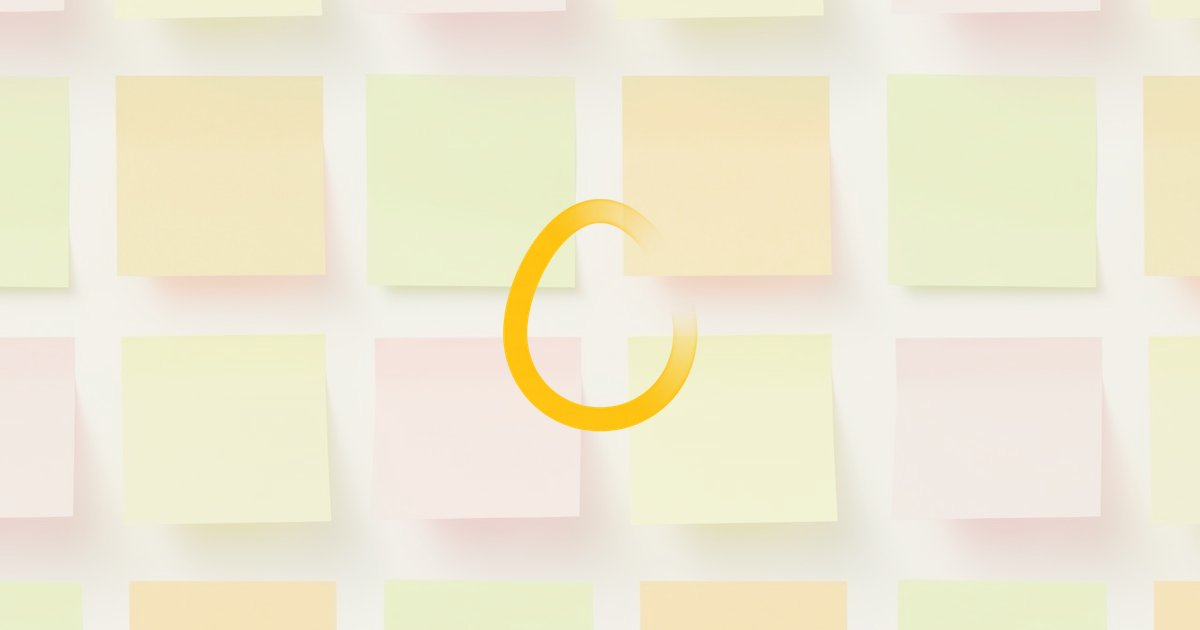
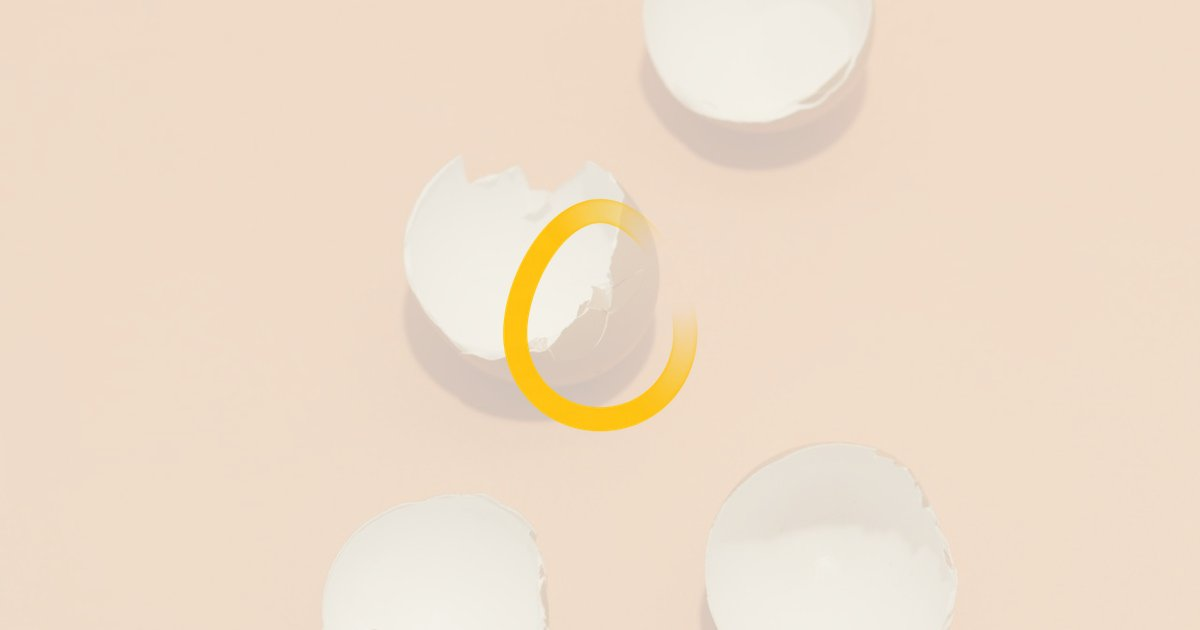
deploy: whiskeyjack-net/whiskeyjack-apps@104ffb59ff903f4d06e7ae6772171bac7aeaaa67

diff --git a/uradi/sw.js b/uradi/sw.js
@@ -1,1 +1,1 @@
-if(!self.define){let e,i={};const n=(n,s)=>(n=new URL(n+".js",s).href,i[n]||new Promise(i=>{if("document"in self){const e=document.createElement("script");e.src=n,e.onload=i,document.head.appendChild(e)}else e=n,importScripts(n),i()}).then(()=>{let e=i[n];if(!e)throw new Error(`Module ${n} didn’t register its module`);return e}));self.define=(s,r)=>{const o=e||("document"in self?document.currentScript.src:"")||location.href;if(i[o])return;let a={};const c=e=>n(e,o),d={module:{uri:o},exports:a,require:c};i[o]=Promise.all(s.map(e=>d[e]||c(e))).then(e=>(r(...e),a))}}define(["./workbox-b20fbdff"],function(e){"use strict";self.skipWaiting(),e.clientsClaim(),e.precacheAndRoute([{url:"registerSW.js",revision:"e69127f0e6bd067acab52bc80bc30afa"},{url:"index.html",revision:"036f46ff7ff88fe6a4204727354b3da4"},{url:"assets/index-CaFF4NTd.css",revision:null},{url:"assets/index-BwpUYzK0.js",revision:null},{url:"favicon.ico",revision:"97c20e244053c115a32c447438ca05be"},{url:"apple-touch-icon.png",revision:"e79ec6789ee85603199ddd1a089ce3c9"},{url:"pwa-192x192.png",revision:"9873df531d931ee8e1ea52e47b6c8f9a"},{url:"pwa-512x512.png",revision:"77e20d8c2118ade25983793824f6e5a9"},{url:"pwa-maskable-192x192.png",revision:"45dcb5958f4945c0260679e12a530e7c"},{url:"pwa-maskable-512x512.png",revision:"ae6ada9423cd44d6e34057605a9cdb0d"},{url:"manifest.webmanifest",revision:"ade50ddd9a21f4610eb8809fa8948459"}],{}),e.cleanupOutdatedCaches(),e.registerRoute(new e.NavigationRoute(e.createHandlerBoundToURL("index.html")))});
+if(!self.define){let e,i={};const n=(n,s)=>(n=new URL(n+".js",s).href,i[n]||new Promise(i=>{if("document"in self){const e=document.createElement("script");e.src=n,e.onload=i,document.head.appendChild(e)}else e=n,importScripts(n),i()}).then(()=>{let e=i[n];if(!e)throw new Error(`Module ${n} didn’t register its module`);return e}));self.define=(s,r)=>{const a=e||("document"in self?document.currentScript.src:"")||location.href;if(i[a])return;let o={};const c=e=>n(e,a),d={module:{uri:a},exports:o,require:c};i[a]=Promise.all(s.map(e=>d[e]||c(e))).then(e=>(r(...e),o))}}define(["./workbox-b20fbdff"],function(e){"use strict";self.skipWaiting(),e.clientsClaim(),e.precacheAndRoute([{url:"registerSW.js",revision:"e69127f0e6bd067acab52bc80bc30afa"},{url:"index.html",revision:"036f46ff7ff88fe6a4204727354b3da4"},{url:"assets/index-CaFF4NTd.css",revision:null},{url:"assets/index-BwpUYzK0.js",revision:null},{url:"favicon.ico",revision:"97c20e244053c115a32c447438ca05be"},{url:"apple-touch-icon.png",revision:"c525ab00ac4ec1fefbdc2199ed1bf5df"},{url:"pwa-192x192.png",revision:"9873df531d931ee8e1ea52e47b6c8f9a"},{url:"pwa-512x512.png",revision:"77e20d8c2118ade25983793824f6e5a9"},{url:"pwa-maskable-192x192.png",revision:"45dcb5958f4945c0260679e12a530e7c"},{url:"pwa-maskable-512x512.png",revision:"ae6ada9423cd44d6e34057605a9cdb0d"},{url:"manifest.webmanifest",revision:"ade50ddd9a21f4610eb8809fa8948459"}],{}),e.cleanupOutdatedCaches(),e.registerRoute(new e.NavigationRoute(e.createHandlerBoundToURL("index.html")))});